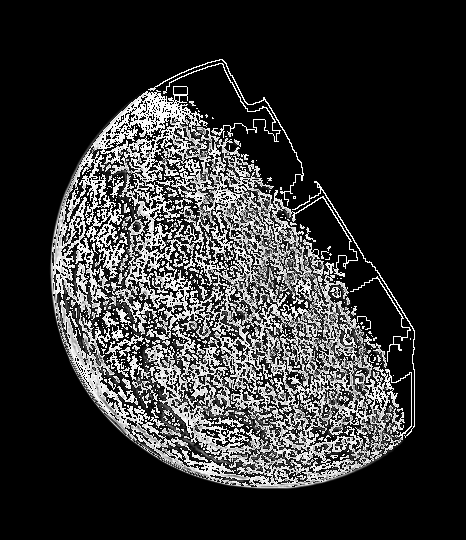
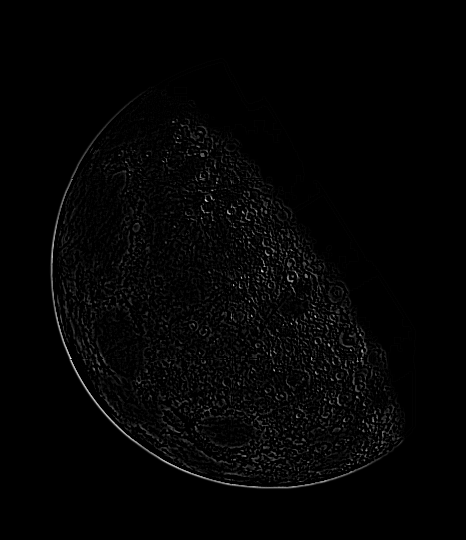
sharpening mask fixed

diff --git a/image_processing.py b/image_processing.py
@@ -27,6 +27,7 @@ def createNewFolder(dir):
         os.rmdir(dir)
     if not os.path.exists(dir):
         os.mkdir(dir)
+
 def getRow(img):
     return img.shape[0]
 
@@ -62,7 +63,7 @@ def setPix(img, rows, cols, value):
     return tempImg
 def scaling(img):
     temp = img.copy()
-    nrows, ncols = getRow(img), getCol(img)
+    nrows, ncols = getRow(temp), getCol(temp)
     maxVal = getMax(temp)
     minVal = getMin(temp)
     temp = temp.astype('float64')
@@ -73,8 +74,9 @@ def scaling(img):
             temp[i, j] = (255) * ((temp[i, j] - minVal) / (maxVal - minVal))
             if temp[i, j] < 0:
                 temp[i, j] = 0
+    temp = temp.astype('uint8')
     return temp
-def subtract(img1, img2, flag):
+def subtract(img1, img2):
     temp = img1.copy()
     nrows1, ncols1 = getRow(img1), getCol(img1)
     nrows2, ncols2 = getRow(img2), getCol(img2)
@@ -85,12 +87,10 @@ def subtract(img1, img2, flag):
         for i in range(nrows1):
             for j in range(ncols1):
                 temp[i, j] = float(img1[i, j]) - float(img2[i, j])
-
-    if flag == True:
-        scaling(temp)
-        temp = temp.astype('uint8')
-
-    else:
+                if temp[i, j] < 0:
+                    temp[i, j] = 0
+                elif temp[i, j] > 255:
+                    temp[i, j] = 255
         temp = temp.astype('uint8')
 
     return temp
@@ -217,6 +217,7 @@ def medianFilterMask(img, sizeOfFilter):
             # 1 birim gidip ilgili pikseller toplanmalıdır. (-(3-1)/2, (3-1)/2 + 1) -> (-1, 2, 1)
             # bu da -1 0 1 sol, merkez ve saga gitmek anlamına gelir.
             # Kodun 5x5, 7x7 ... için de gecerli oldugunu kagit uzerinde deneyebilirsiniz.
+            counter = 0
             for filtRows in range(int(-(sizeOfFilter - 1)/2), \
                                   int((sizeOfFilter - 1)/2 + 1), \
                                   1):
@@ -233,7 +234,7 @@ def medianFilterMask(img, sizeOfFilter):
                     counter += 1
             medianArray = sortArray(medianArray, sizeOfFilter)
             tempImage[i, j] = medianArray[int((sizeOfFilter * sizeOfFilter - 1)/2)]
-            counter = 0
+
     return tempImage
 
 def sortArray(medianArray, sizeOfFilter):
@@ -285,27 +286,34 @@ def histogramEqualization(img):
 # |1  -4   1| soldaki maskenin teorik cikarimina foyden erisebilirsiniz.
 # |0   1   0|
 
-def sharpeningMask(img):
+def sharpeningMask(img, flag):
     nrows = getRow(img)
     ncols = getCol(img)
     filteredImg = np.zeros((nrows, ncols), dtype = 'float64')
     for i in range(nrows):
         for j in range(ncols):
             if i >= 1 and j >= 1 and i < nrows-1 and j < ncols-1:
-                pixVal = ((-4) * float(img[i, j]) + \
-                          float(img[i, j-1]) + \
-                          float(img[i, j+1]) + \
-                          float(img[i-1, j]) + \
-                          float(img[i+1, j]))
+                pixVal = ((-4) * np.float(img[i, j]) + \
+                          np.float(img[i, j-1]) + \
+                          np.float(img[i, j+1]) + \
+                          np.float(img[i-1, j]) + \
+                          np.float(img[i+1, j]))
+
             else:
                 pixVal = 0
             filteredImg[i, j] = pixVal
-    #filteredImg = scaling(filteredImg)
-    filteredImg = filteredImg.astype('uint8')
+            if filteredImg[i, j] < 0:
+                filteredImg[i, j] = 0
+            elif filteredImg[i, j] > 255:
+                filteredImg[i, j] = 255
+
+
+    filteredImg = (filteredImg).astype('uint8')
+
     return filteredImg
 
 
-def sharpeningLaplace(img):
+def sharpeningLaplaceMask(img, flag):
     nrows = getRow(img)
     ncols = getCol(img)
     filteredImg = np.zeros((nrows, ncols), dtype='float64')
@@ -320,13 +328,19 @@ def sharpeningLaplace(img):
                           float(img[i + 1, j + 1]) + \
                           float(img[i - 1, j - 1]) + \
                          float(img[i - 1, j + 1]) + \
-                         float(img[i - 1, j + 1]))
+                         float(img[i + 1, j - 1]))
             else:
                 pixVal = 0
             filteredImg[i, j] = pixVal
-    #print(filteredImg)
-    #filteredImg = scaling(filteredImg)
-    filteredImg = filteredImg.astype('uint8')
+            if filteredImg[i, j] < 0:
+                filteredImg[i, j] = 0
+            elif filteredImg[i, j] > 255:
+                filteredImg[i, j] = 255
+
+    filteredImg = (filteredImg).astype('uint8')
+
     return filteredImg
+
+
 
 

diff --git a/main.py b/main.py
@@ -161,30 +161,36 @@ def main():
     dir = os.path.join(os.getcwd(), "output", "sharpening-mask-image")
     ip.createNewFolder(dir)
     ip.writeImage("./output/sharpening-mask-image/blurry_moon.png", img)
-    filteredImg = ip.sharpeningMask(img)
-    #SCALING
+    
+    filteredImg = ip.sharpeningMask(img, True)
     ip.writeImage("./output/sharpening-mask-image/filtered-blurry_moon.png", filteredImg)
-    sharpeningImg = ip.subtract(img, filteredImg, False)
+    sharpeningImg = ip.subtract(img, filteredImg)
     ip.writeImage("./output/sharpening-mask-image/sharpening-blurry_moon.png", sharpeningImg)
 
     ip.writeImage("./output/sharpening-mask-image/blurry_moon.png", img)
-    laplacedImg = ip.sharpeningLaplace(img)
-    #SCALING
+    laplacedImg = ip.sharpeningLaplaceMask(img, True)
     ip.writeImage("./output/sharpening-mask-image/laplaced-blurry_moon.png", laplacedImg)
-    sharpening_LaplacedImg = ip.subtract(img, laplacedImg, False)
+    sharpening_LaplacedImg = ip.subtract(img, laplacedImg)
     ip.writeImage("./output/sharpening-mask-image/sharpening-laplaced-blurry_moon.png", sharpening_LaplacedImg)
 
     """
+
+
     # sharping mask using median filter
-    """
+
     img = ip.readImage("dipxe_text.png")
     dir = os.path.join(os.getcwd(), "output", "sharpening-mask-image-using-median-filter")
     ip.createNewFolder(dir)
     ip.writeImage("./output/sharpening-mask-image-using-median-filter/dipxe_text.png", img)
-    medianImg = ip.medianFilterMask(img, 9)
-    sharpeningImg = medianImg
+
+    blurred = ip.medianFilterMask(img, 9)
+    ip.writeImage("./output/sharpening-mask-image-using-median-filter/blurred-dipxe_text.png", blurred)
+    unsharped = ip.subtract(img, blurred)
+    ip.writeImage("./output/sharpening-mask-image-using-median-filter/unsharped-dipxe_text.png", unsharped)
+
+    sharpeningImg = img + unsharped
     ip.writeImage("./output/sharpening-mask-image-using-median-filter/sharpening-dipxe_text.png", sharpeningImg)
-    """
+
 
 if __name__ == "__main__":
     main()
